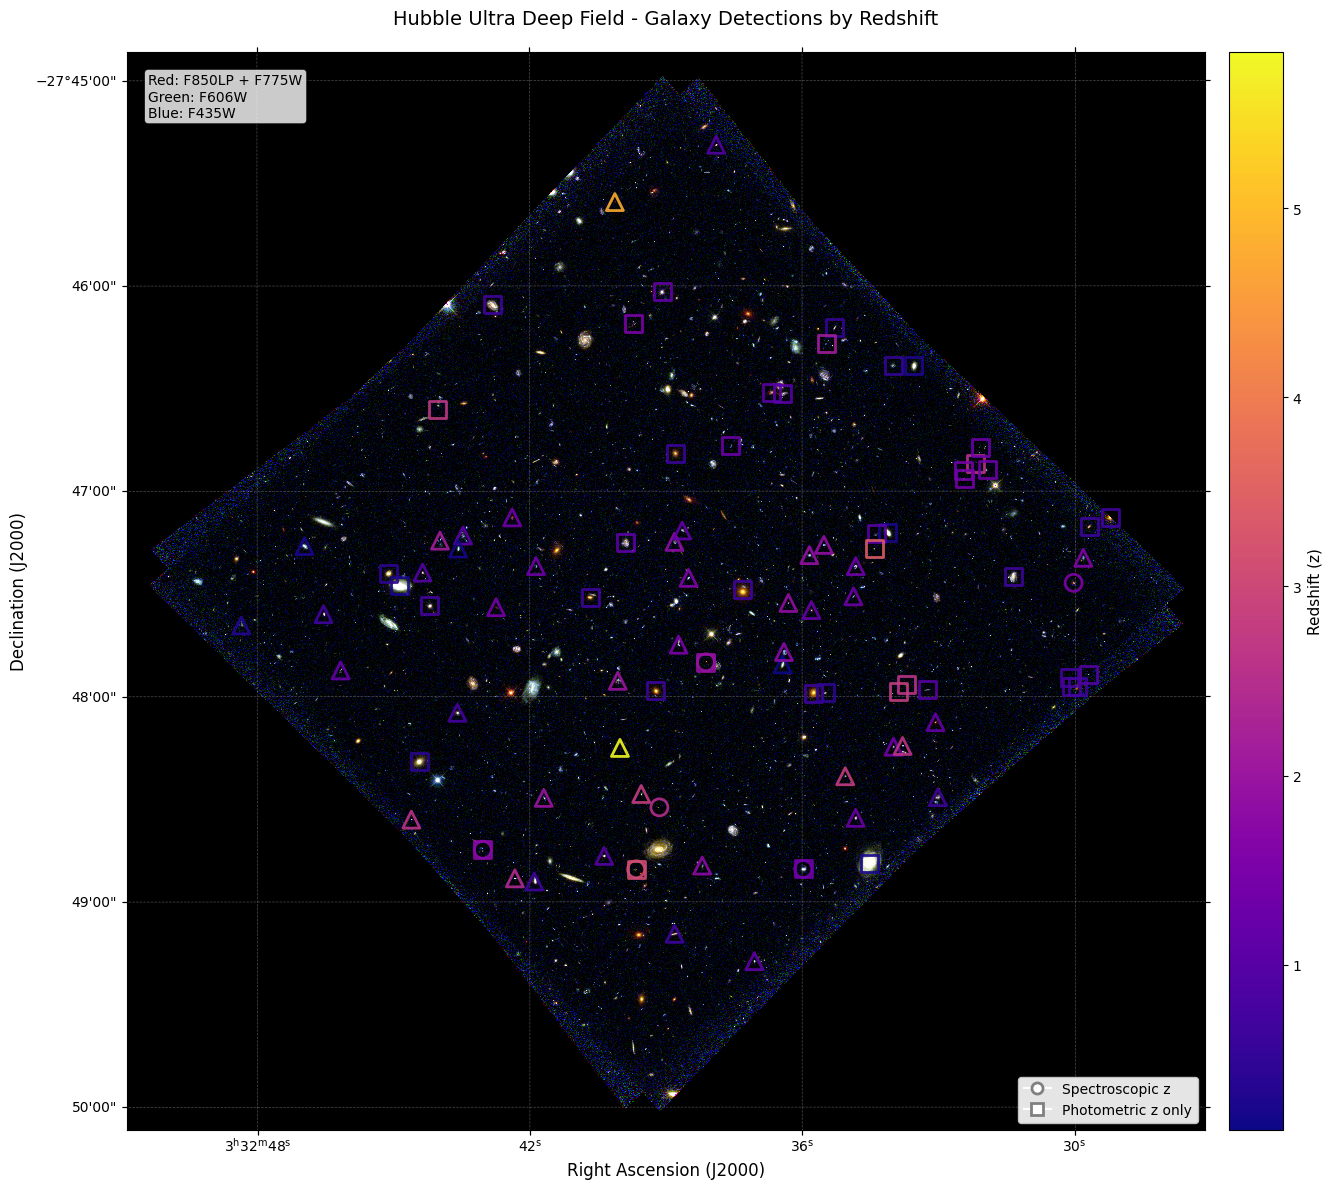
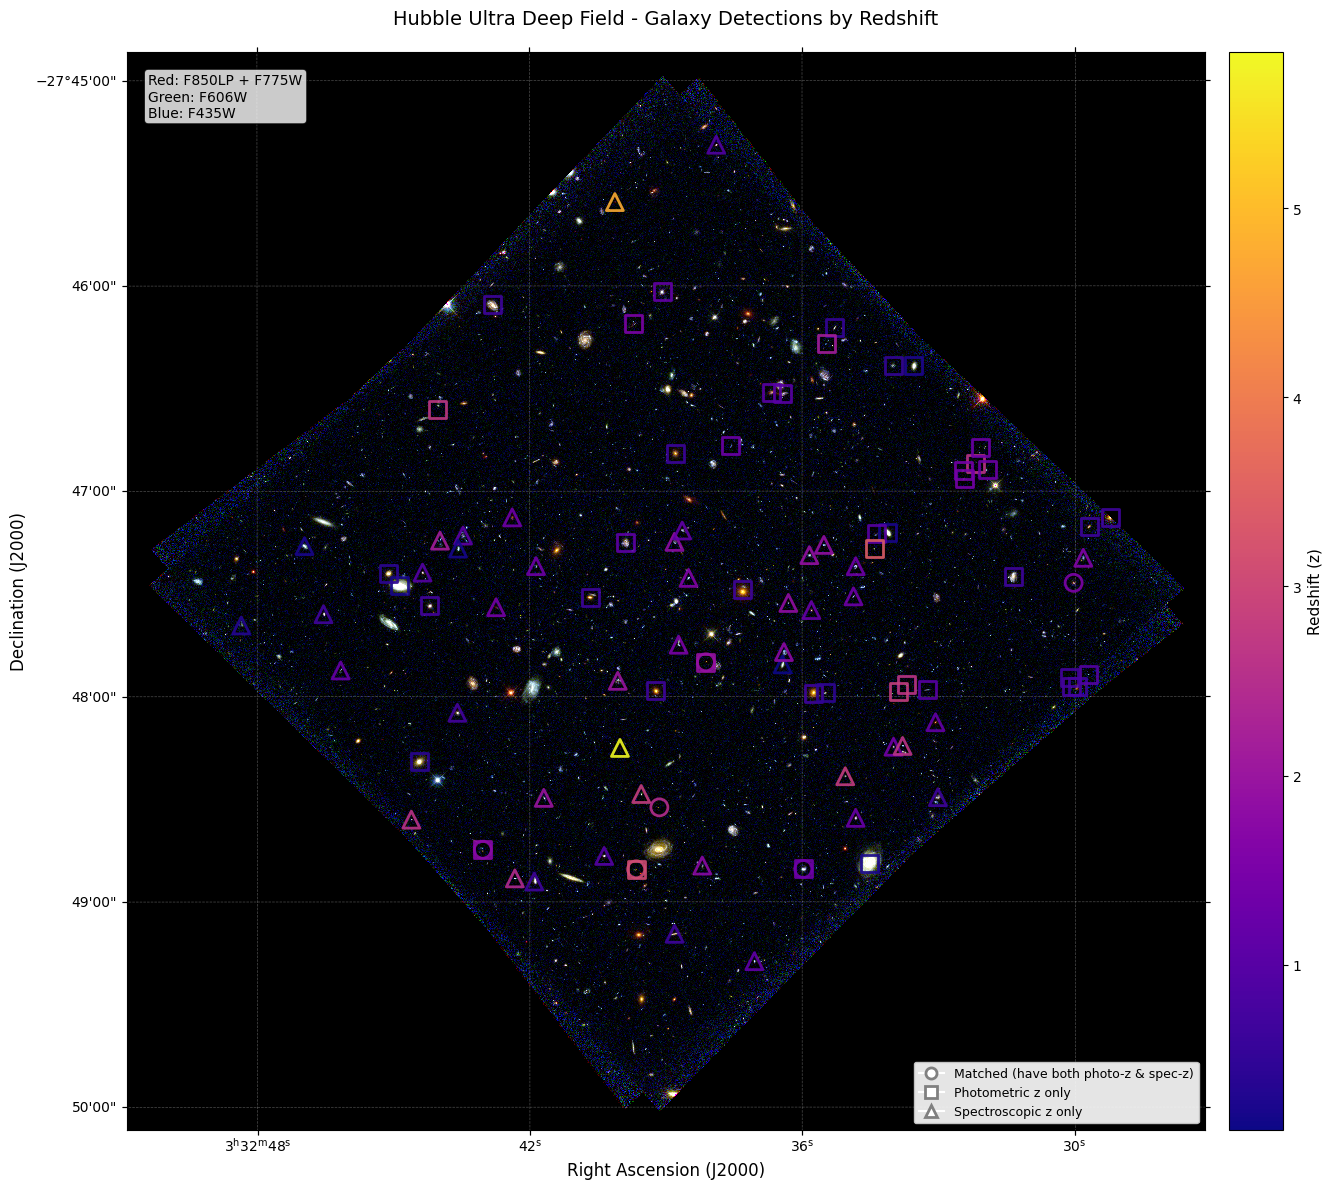
Fixed the overlay legend to actually have the correct information. Regenerated the plots

Changed region(s): [[0.6772, 0.8713, 0.9234, 0.9647]]

diff --git a/galaxy_overlay.py b/galaxy_overlay.py
@@ -389,15 +389,20 @@ def overlay_galaxies_by_type(ax, wcs, matched_df, photoz_only_df, specz_only_df=
     # Force garbage collection to free memory
     gc.collect()
     
-    # Add legend
+    # Add legend with ALL THREE marker types
     from matplotlib.lines import Line2D
     legend_elements = [
         Line2D([0], [0], marker='o', color='w', markeredgecolor='gray',
-               markeredgewidth=2, markersize=8, label='Spectroscopic z'),
+               markeredgewidth=2, markersize=8, 
+               label='Matched (have both photo-z & spec-z)'),
         Line2D([0], [0], marker='s', color='w', markeredgecolor='gray',
-               markeredgewidth=2, markersize=8, label='Photometric z only')
+               markeredgewidth=2, markersize=8, 
+               label='Photometric z only'),
+        Line2D([0], [0], marker='^', color='w', markeredgecolor='gray',
+               markeredgewidth=2, markersize=8, 
+               label='Spectroscopic z only')
     ]
-    ax.legend(handles=legend_elements, loc='lower right', fontsize=10,
+    ax.legend(handles=legend_elements, loc='lower right', fontsize=9,
              framealpha=0.9)
     
     return cbar
